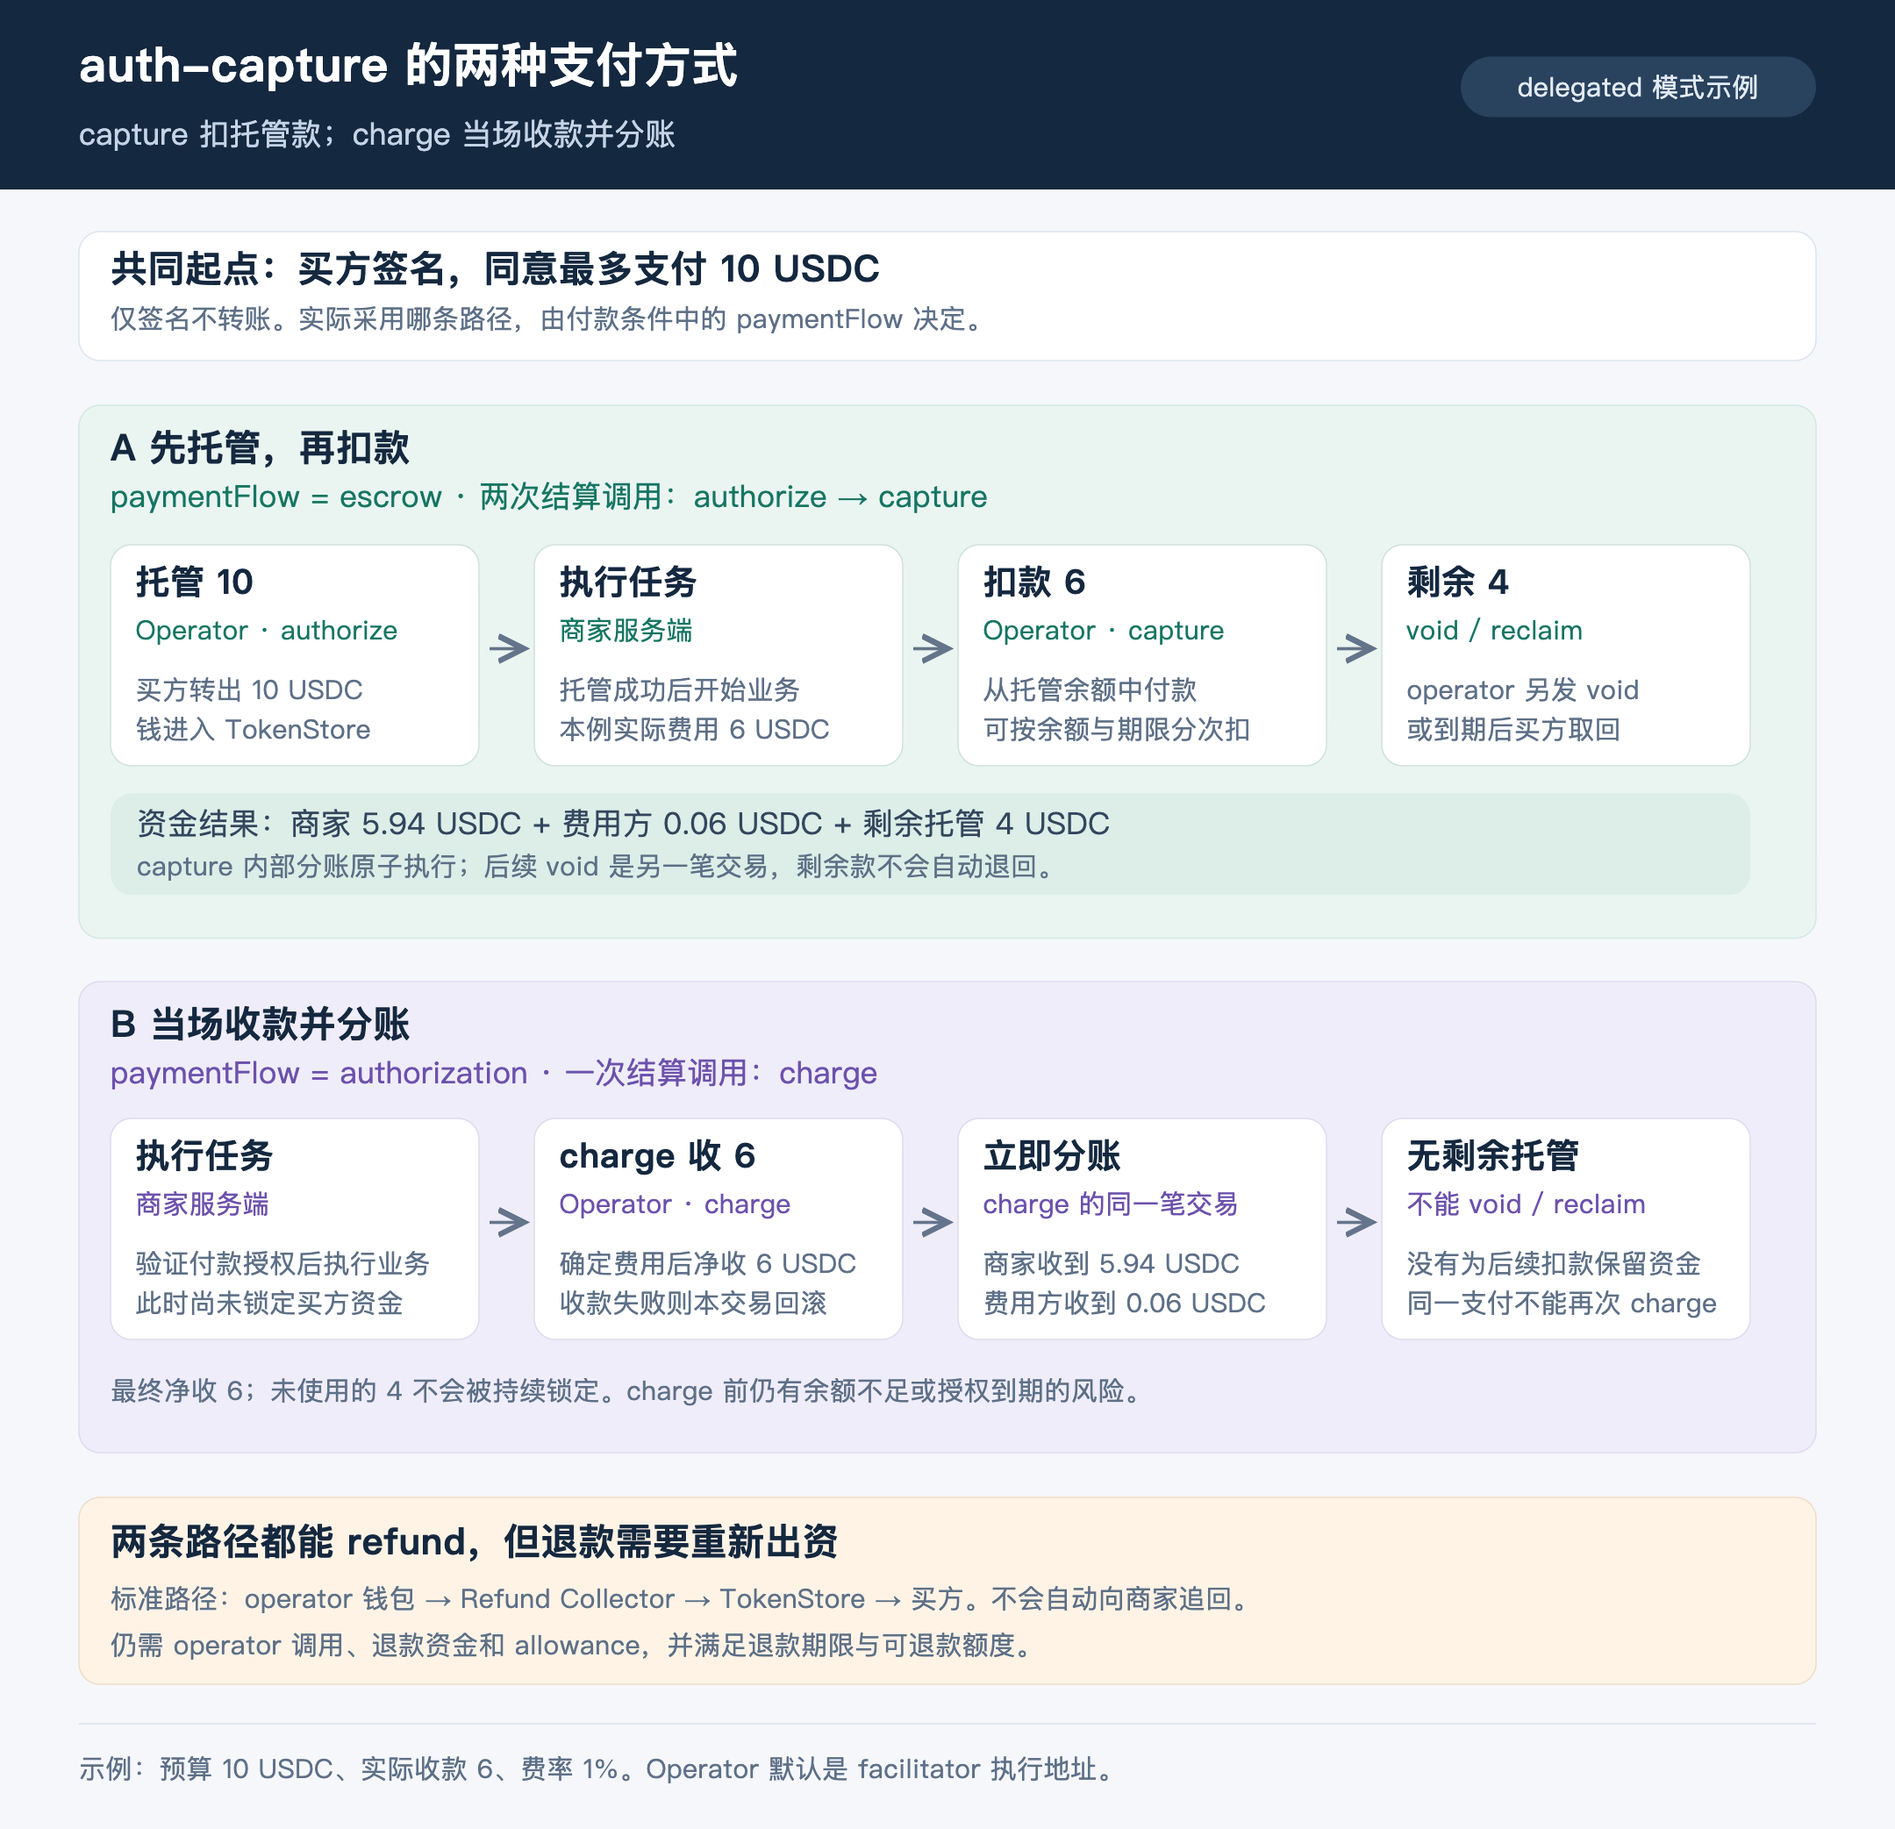
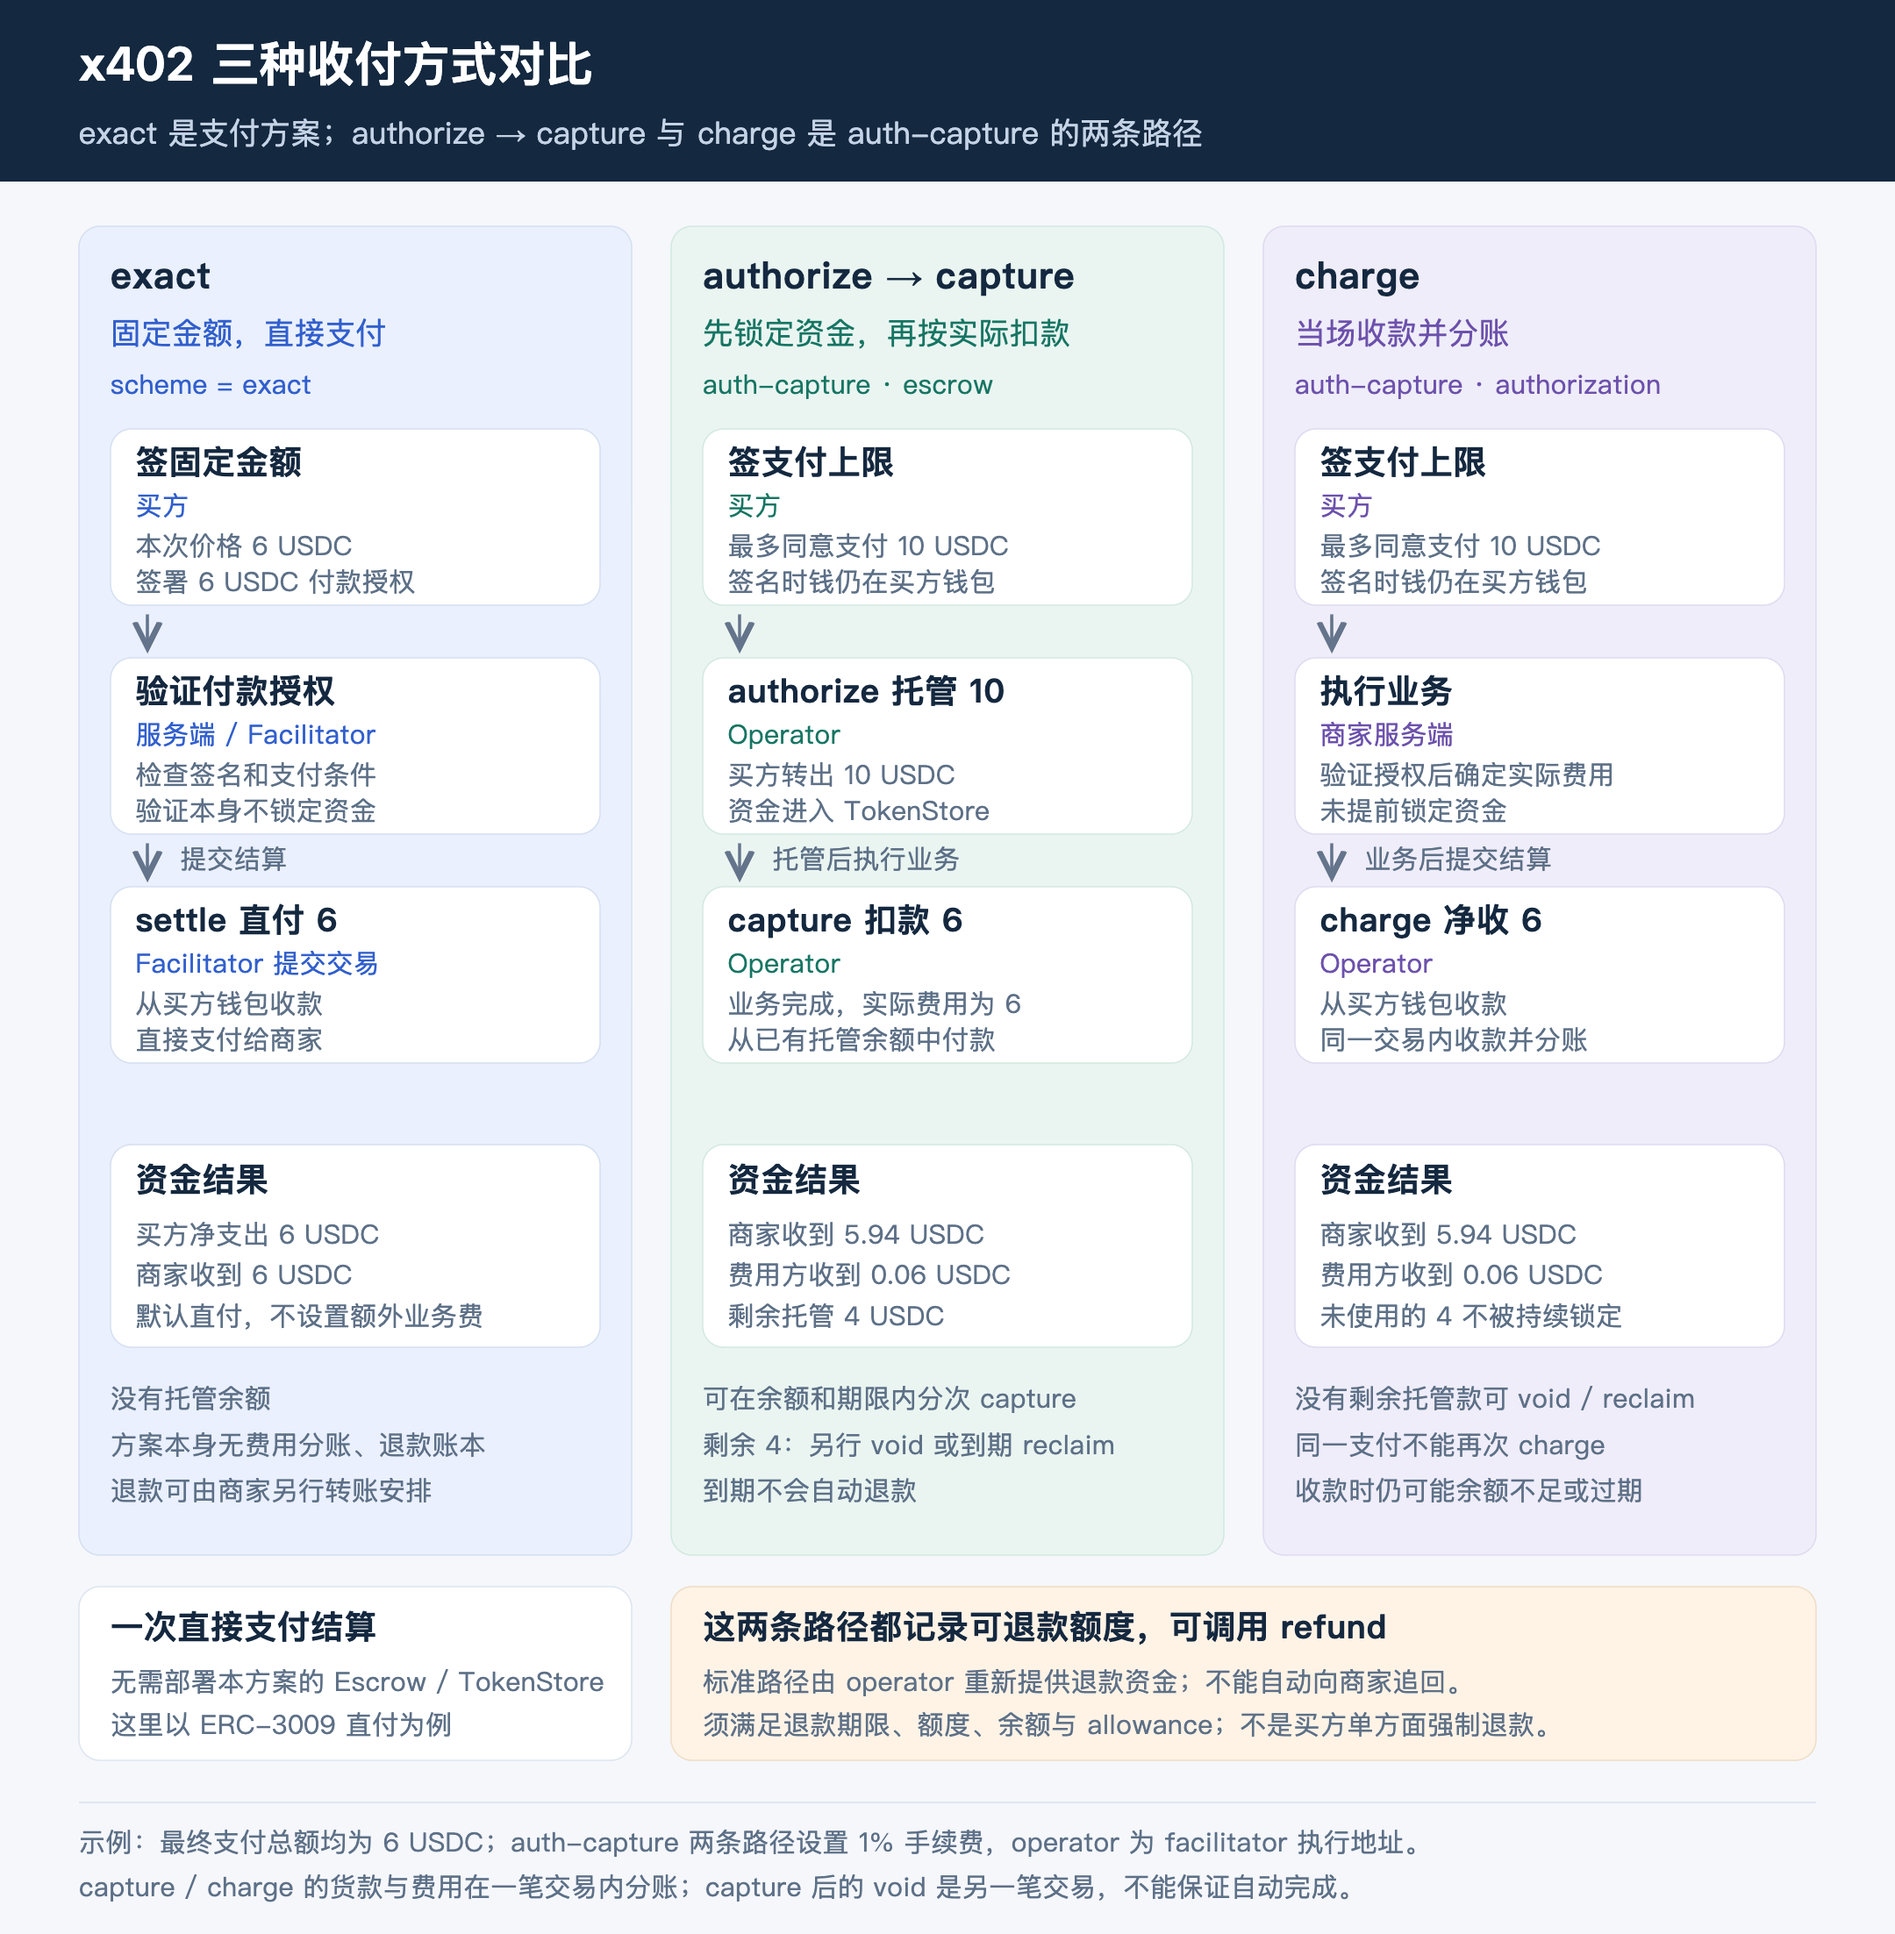
docs: compare exact escrow capture and charge visually

diff --git a/docs/auth-capture-contract-analysis.md b/docs/auth-capture-contract-analysis.md
@@ -6,9 +6,9 @@
 
 auth-capture 用来处理“先准备好钱，稍后再结算”的支付。比如 Agent 做一个预算 10 USDC 的任务：先托管 10，完成后实际扣 6，再退回剩余 4。
 
-![auth-capture 支付流程与资金去向](../assets/auth-capture/08-auth-capture-overview.png)
+![exact 与 authorize capture 及 charge 的流程对比](../assets/auth-capture/08-auth-capture-overview.png)
 
-上图对比 delegated 模式的两条路径：escrow 先 authorize 托管，再 capture；authorization 直接 charge 收款并分账。两者都可 refund，但 charge 没有剩余托管款可 void 或 reclaim。费用按 1% 举例。
+图中三种方式最终都付 6 USDC：exact 签固定金额并直付；authorize → capture 先托管 10 再扣 6；charge 签上限 10，最终净收 6。exact 以 ERC-3009 默认直付为例，后两条采用 delegated 模式、费用设为 1%，并保留合约退款额度。
 
 它适合异步任务、按用量计费和一次会话内分次扣款。**每笔支付有额度和期限，不能反复充值，也不是长期自动续费。**
 
